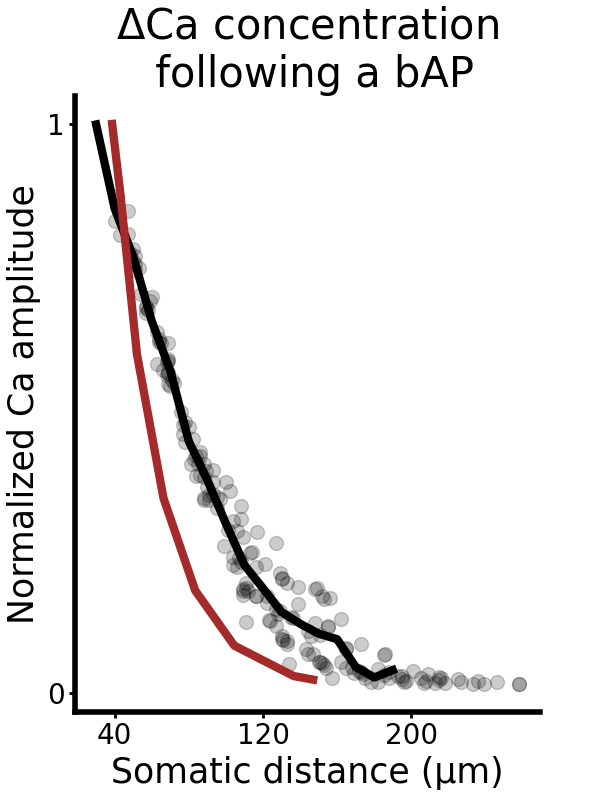
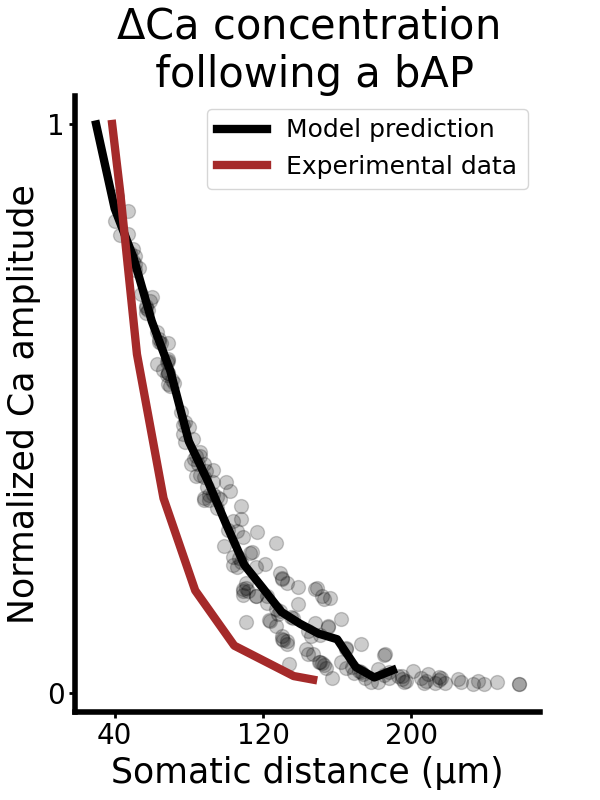
Minor fixes

Changed region(s): [[0.48, 0.125, 0.87, 0.2188], [0.33, 0.1562, 0.45, 0.2188]]

diff --git a/basalunit/utils.py b/basalunit/utils.py
@@ -709,12 +709,16 @@ class CellModel_Lindroos2018(sciunit.Model):
                 ax.plot(m[1], np.divide(m[0], mean_amp[3]), '.', ms=20, color='k', alpha=0.2)
 
         mean_amp = np.divide(mean_amp, mean_amp[3])
-        ax.plot(x[3:], mean_amp[3:], lw=6, color='k')
+        ax.plot(x[3:], mean_amp[3:], lw=6, color='k', label='Model prediction')
+        ax.legend(fontsize=18)
+        # ax.legend(['Experimental data', 'Model prediction'])
+        # ax.legend(['Experimental data'])
 
         #day et al 2008
         exp_data_file = os.path.join(self.model_path, 'Exp_data/bAP/bAP-DayEtAl2006-D1.csv')
         [x1,y1] = np.loadtxt(exp_data_file, unpack=True)
-        ax.plot(x1, y1, 'brown', lw=6)
+        ax.plot(x1, y1, 'brown', lw=6, label='Experimental data')
+        ax.legend(fontsize=18)
 
         # Hide the right and top spines
         ax.spines['right'].set_visible(False)
